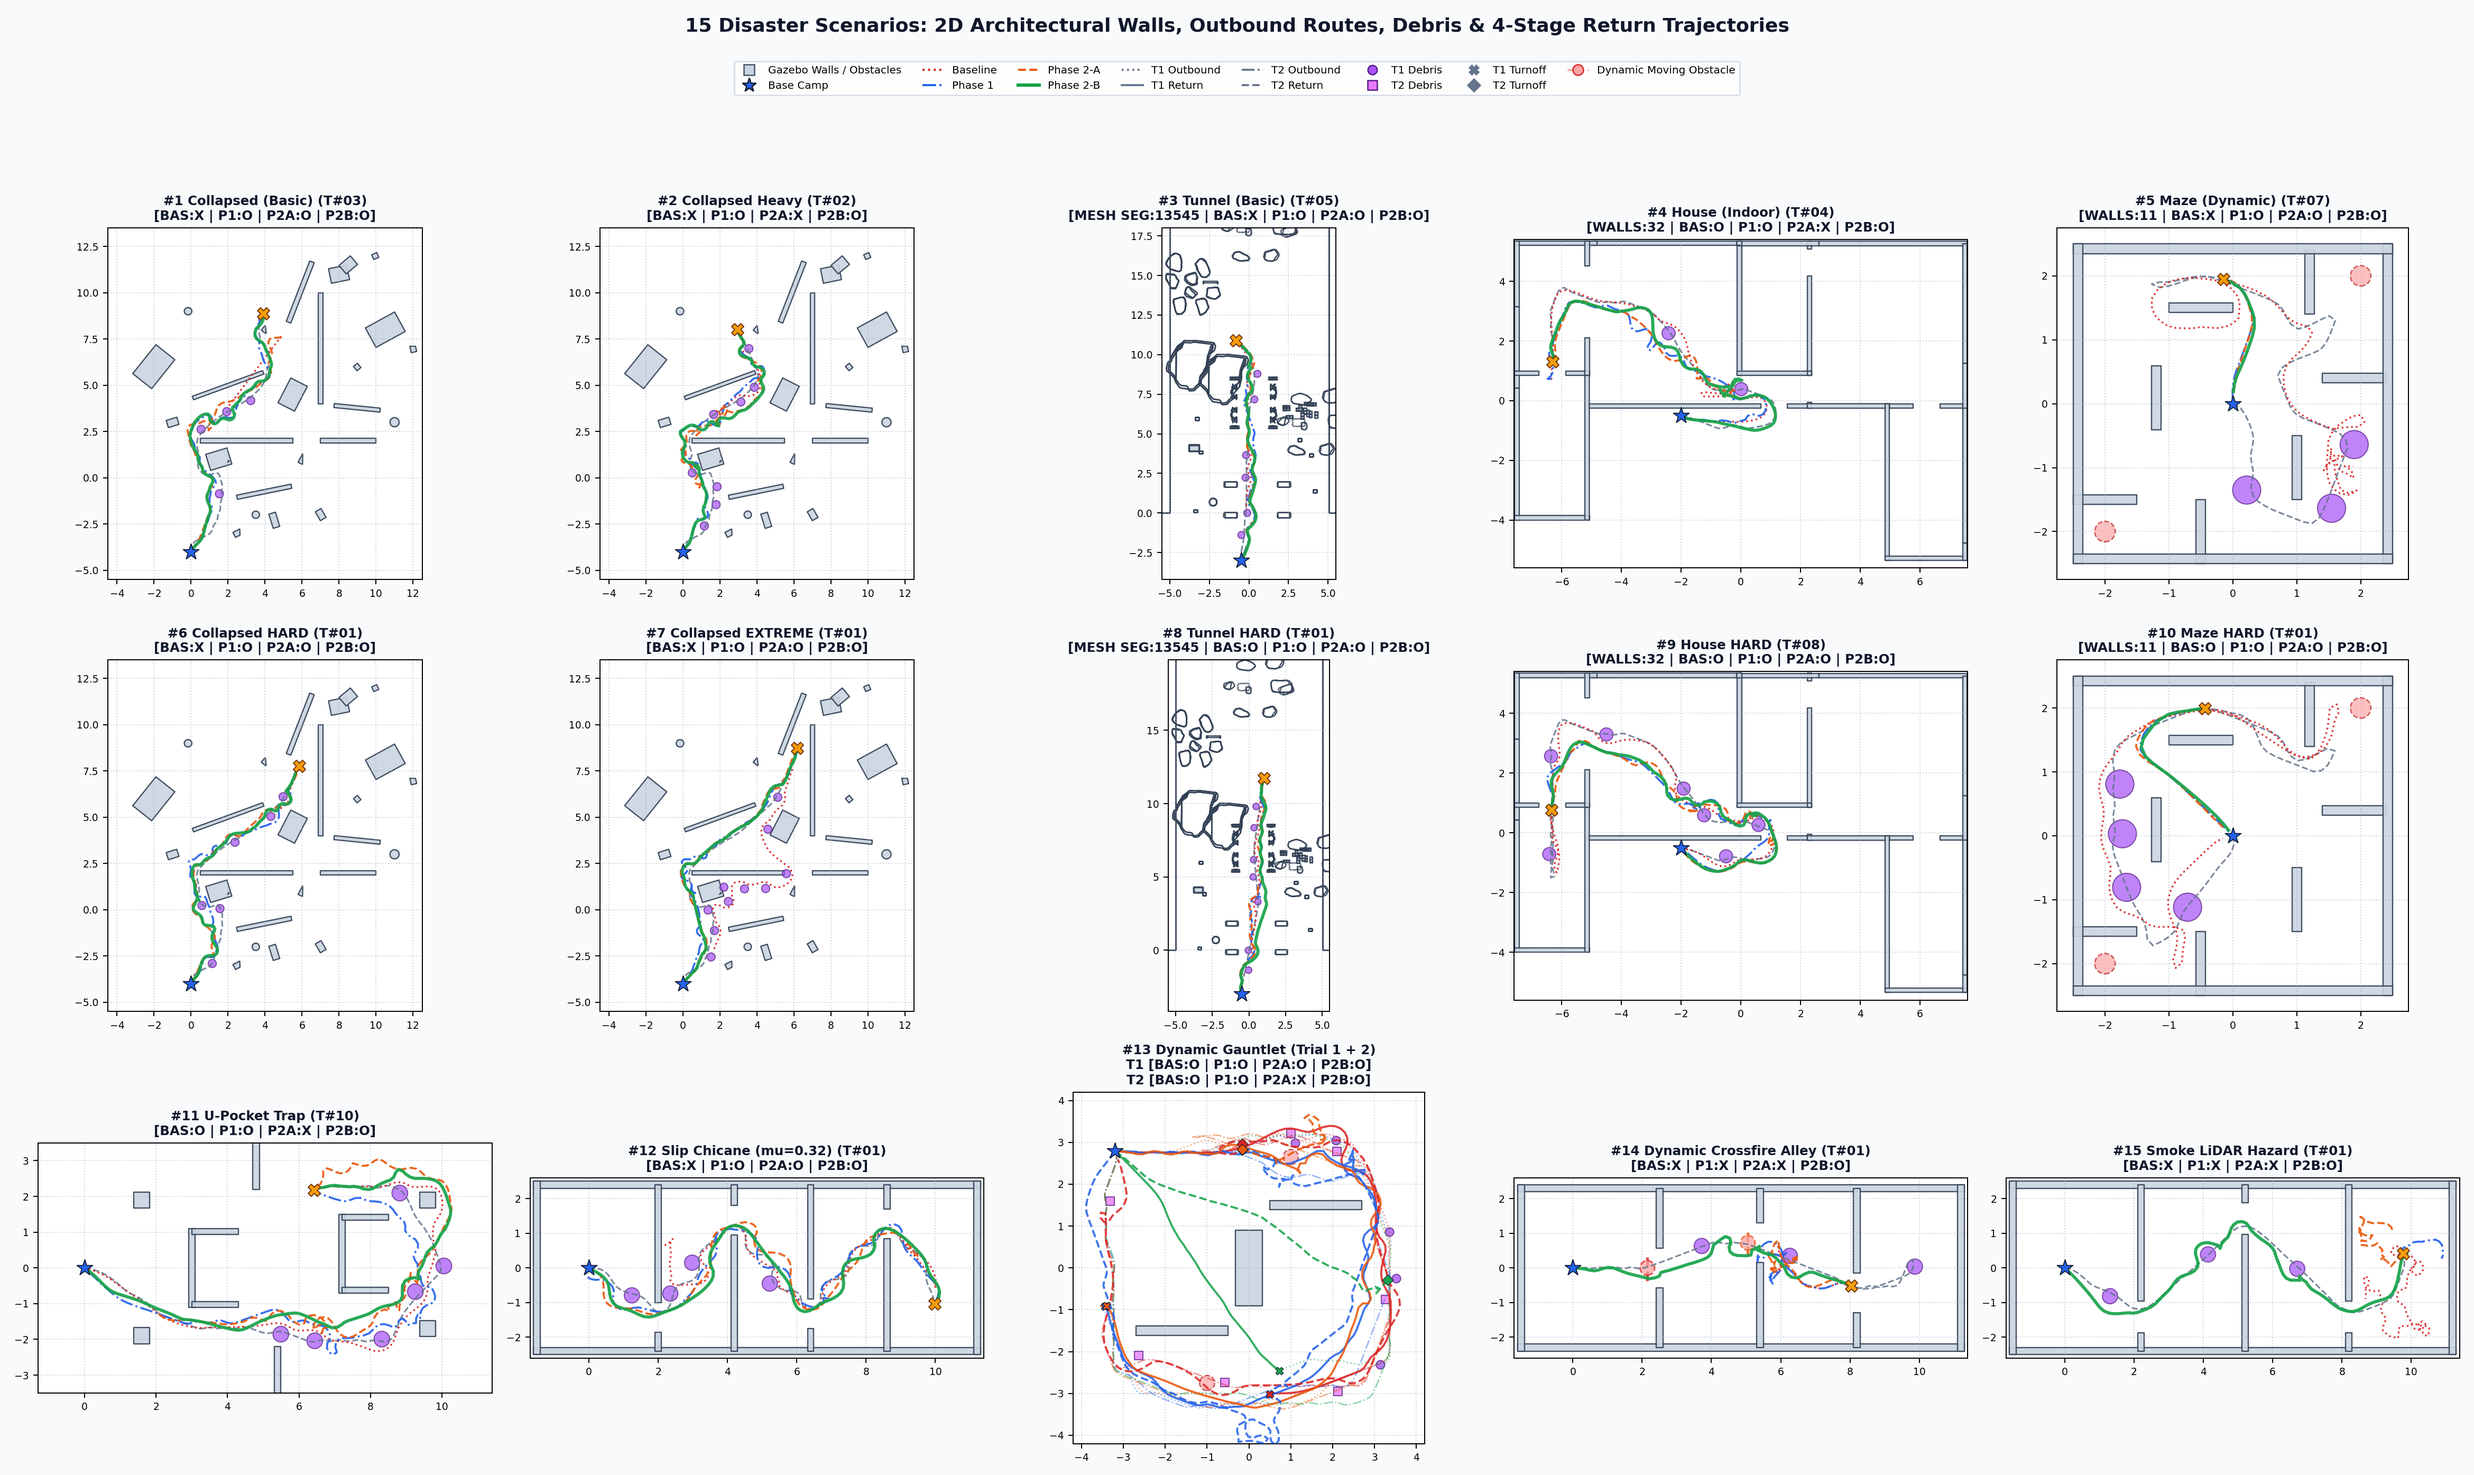
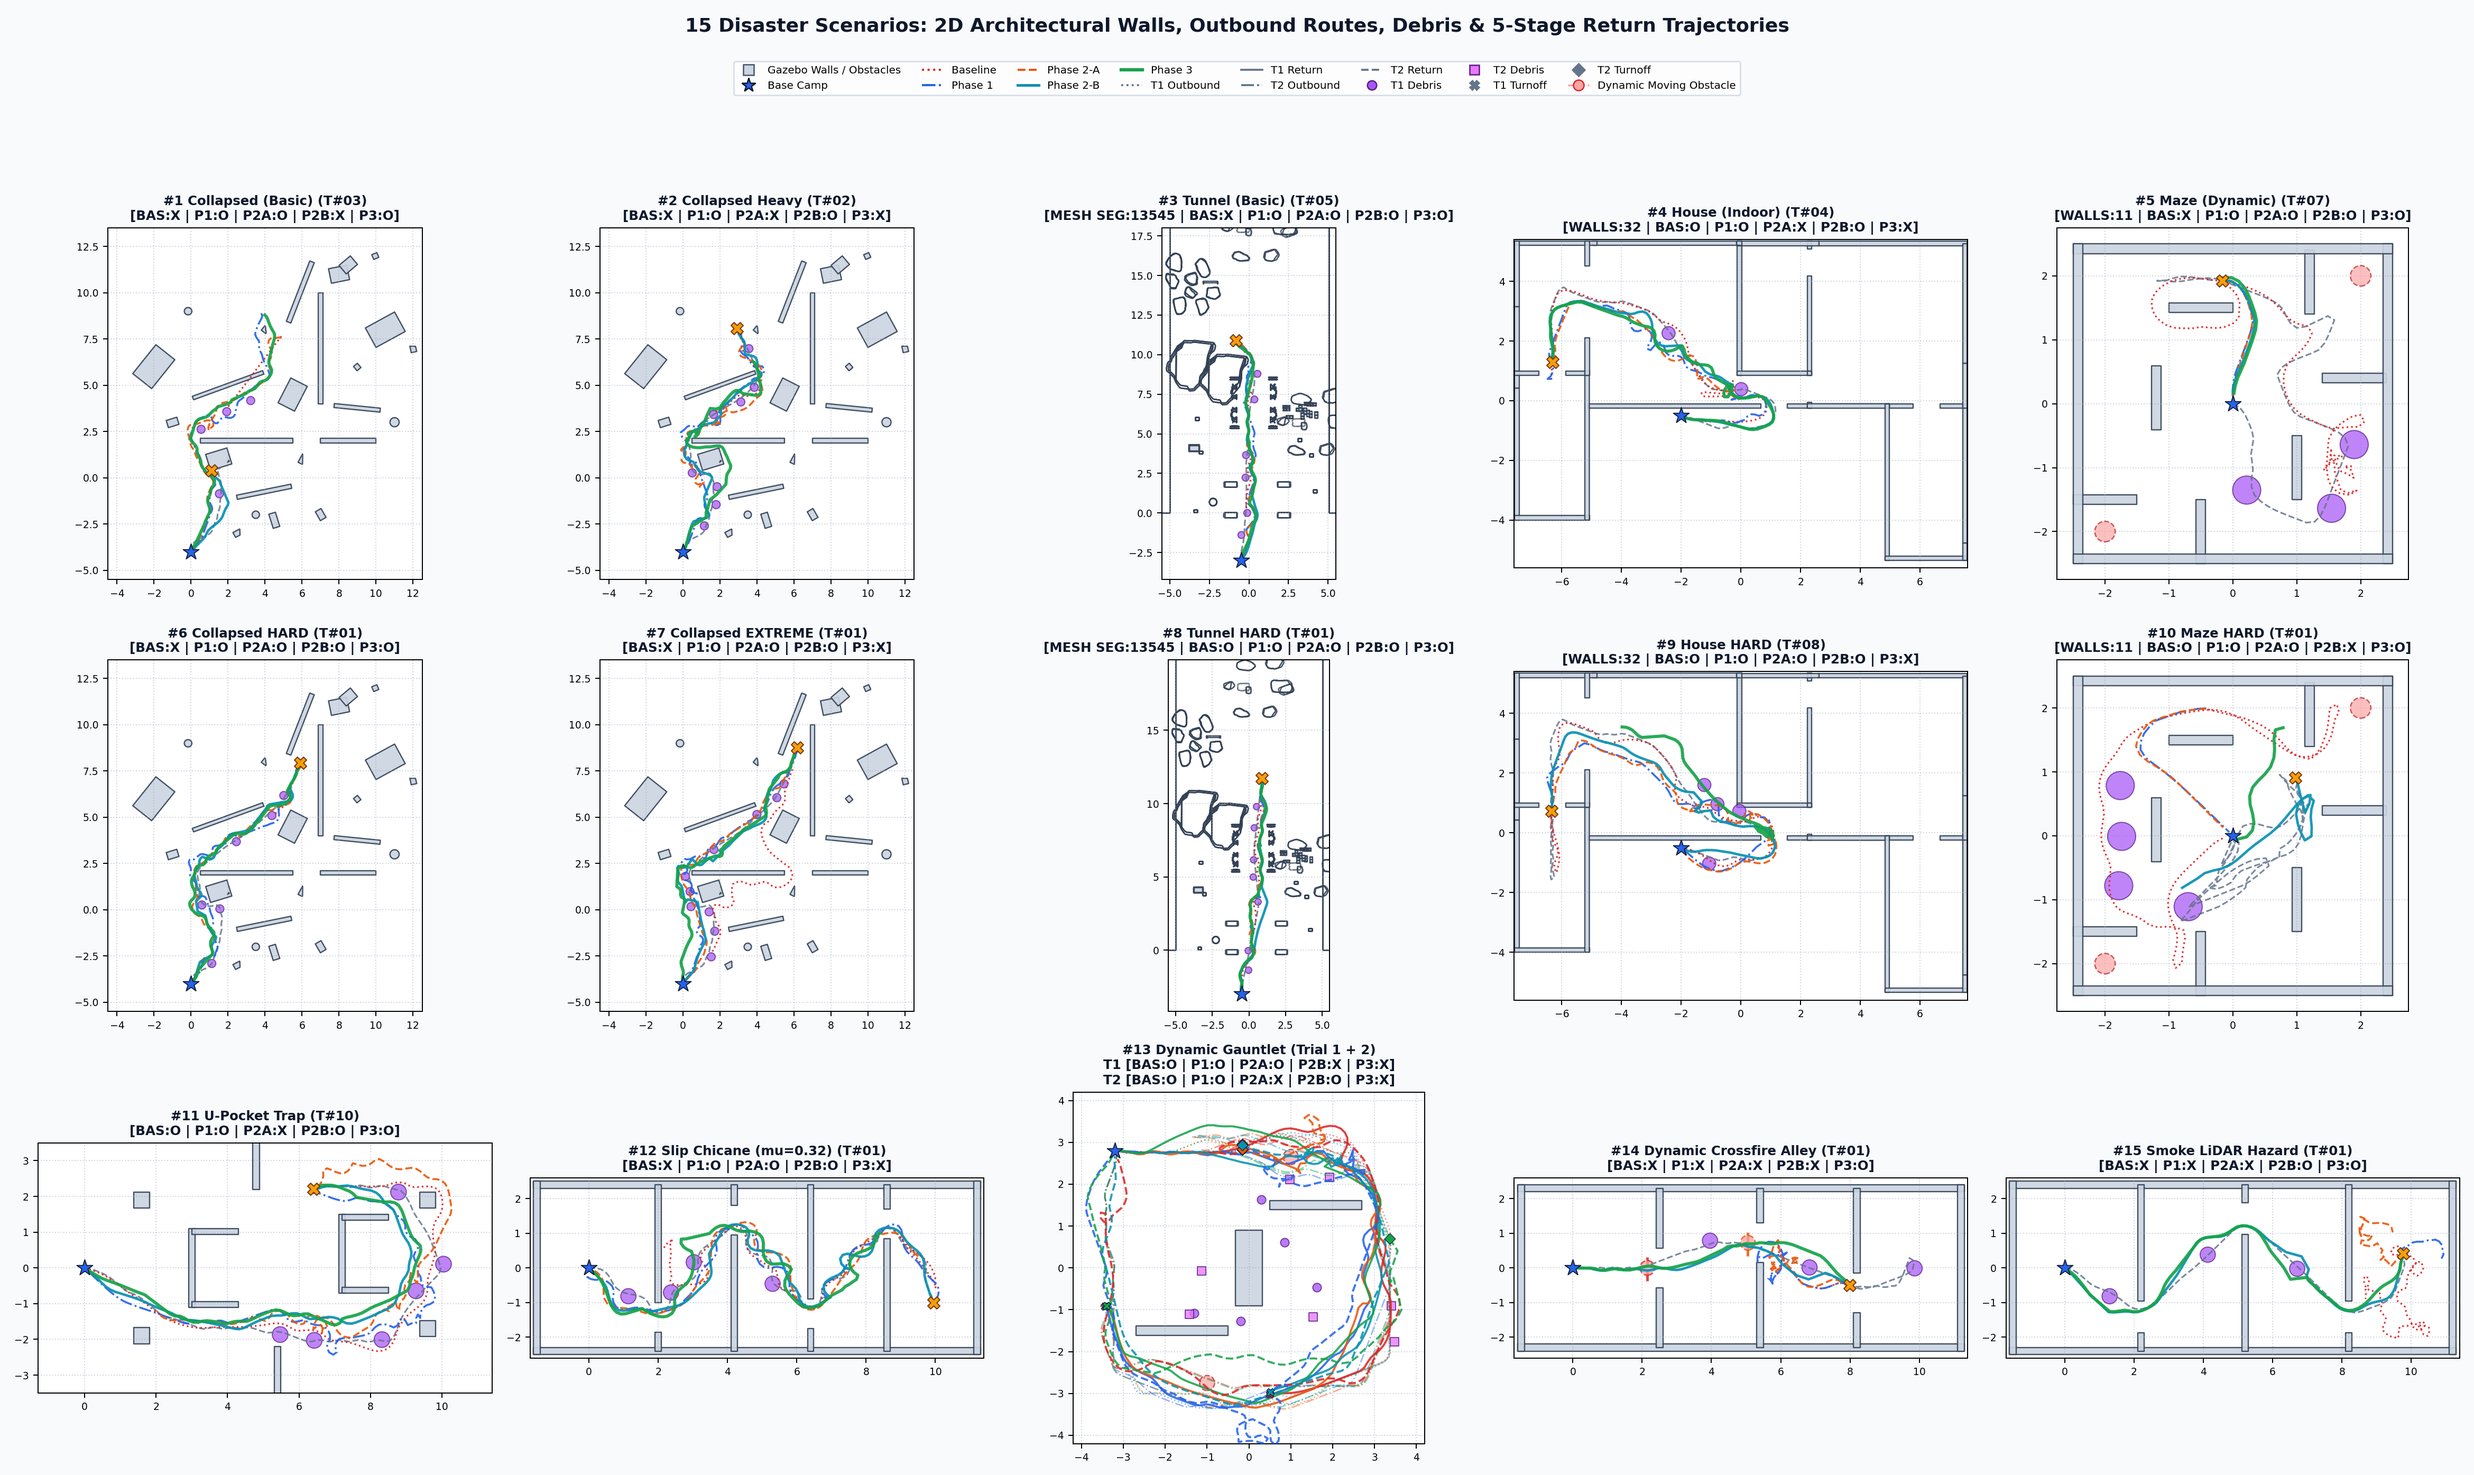
feat(atlas,docs): upgrade 15-scenario route atlas to 5-stage, expose in README, and document house_hard regression analysis

diff --git a/scripts/host/plot_scenario_routes_15_atlas.py b/scripts/host/plot_scenario_routes_15_atlas.py
@@ -134,7 +134,7 @@ PANELS: List[Tuple[str, str, int, str, Tuple[float, float, float, float]]] = [
 
 
 def _load_stage_trials(sc: str) -> Dict[str, dict]:
-    """Load the 4 benchmark stage JSON records (baseline, p1, p2a, p2b) for scenario sc."""
+    """Load the 5 benchmark stage JSON records (baseline, p1, p2a, p2b, p3) for scenario sc."""
     basic5 = {"collapsed", "collapsed_heavy", "tunnel", "house", "maze"}
     new2 = {"dynamic_crossfire_alley", "smoke_lidar_corruption"}
     if sc in basic5:
@@ -146,25 +146,22 @@ def _load_stage_trials(sc: str) -> Dict[str, dict]:
     else:
         p_b_p1 = os.path.join(HDD_ROOT, "bench_hard8_10trials", "phase1", f"ab_{sc}_10trials.json")
         p_p2a = os.path.join(HDD_ROOT, "bench_hard8_10trials", "phase2a", f"ab_{sc}_10trials.json")
-    p_p2b = os.path.join(HDD_ROOT, "bench_phase2b_v3_dynfix", f"ab_{sc}_10trials.json")
+    p_p2b = os.path.join(BM_ROOT, "phase2b_strict", f"ab_{sc}_10trials.json")
+    p_p3 = os.path.join(BM_ROOT, "phase3_semantic_v3", f"ab_{sc}_10trials.json")
 
     j_bp1 = json.load(open(p_b_p1, "r", encoding="utf-8"))
     j_p2a = json.load(open(p_p2a, "r", encoding="utf-8"))
     j_p2b = json.load(open(p_p2b, "r", encoding="utf-8"))
+    j_p3 = json.load(open(p_p3, "r", encoding="utf-8"))
     p2b_trials = j_p2b["proposed"]["trials"]
-
-    if sc == "dynamic_gauntlet":
-        sc_trace_path = os.path.join(WS_ROOT, "docs", "data", "dynamic_gauntlet_shortcut_traces.json")
-        if os.path.isfile(sc_trace_path):
-            sc_data = json.load(open(sc_trace_path, "r", encoding="utf-8"))
-            sc_by_trial = {int(r["trial"]): r for r in sc_data.get("trials", [])}
-            p2b_trials = [sc_by_trial.get(int(r.get("trial", -1)), r) for r in p2b_trials]
+    p3_trials = j_p3["proposed"]["trials"]
 
     return {
         "bas": j_bp1["baseline"]["trials"],
         "p1": j_bp1["proposed"]["trials"],
         "p2a": j_p2a["proposed"]["trials"],
         "p2b": p2b_trials,
+        "p3": p3_trials,
     }
 
 
@@ -222,12 +219,14 @@ def main() -> int:
             "phase1": _select_trial(stages["p1"], t_idx, sc, "phase1"),
             "phase2a": _select_trial(stages["p2a"], t_idx, sc, "phase2a"),
             "phase2b": _select_trial(stages["p2b"], t_idx, sc, "phase2b"),
+            "phase3": _select_trial(stages["p3"], t_idx, sc, "phase3"),
         }
         _validate_stage_identity(sc, t_idx, selected)
         r_bas = selected["baseline"]
         r_p1 = selected["phase1"]
         r_p2a = selected["phase2a"]
         r_p2b = selected["phase2b"]
+        r_p3 = selected["phase3"]
 
         gauntlet_trials = {}
         if sc == "dynamic_gauntlet":
@@ -237,6 +236,7 @@ def main() -> int:
                     "phase1": _select_trial(stages["p1"], trial_num, sc, "phase1"),
                     "phase2a": _select_trial(stages["p2a"], trial_num, sc, "phase2a"),
                     "phase2b": _select_trial(stages["p2b"], trial_num, sc, "phase2b"),
+                    "phase3": _select_trial(stages["p3"], trial_num, sc, "phase3"),
                 }
                 _validate_stage_identity(sc, trial_num, records)
                 gauntlet_trials[trial_num] = records
@@ -326,7 +326,8 @@ def main() -> int:
                 "baseline": "#dc2626",
                 "phase1": "#2563eb",
                 "phase2a": "#ea580c",
-                "phase2b": "#16a34a",
+                "phase2b": "#0891b2",
+                "phase3": "#16a34a",
             }
             trial_styles = {
                 1: {"outbound": ":", "return": "-", "debris": "o", "turnoff": "X"},
@@ -394,10 +395,11 @@ def main() -> int:
                 )
 
             for rec, col, ls, lw, zo in (
-                (r_bas, "#dc2626", ":", 1.35, 5),
-                (r_p1, "#2563eb", "-.", 1.50, 6),
-                (r_p2a, "#ea580c", "--", 1.50, 7),
-                (r_p2b, "#16a34a", "-", 2.35, 8),
+                (r_bas, "#dc2626", ":", 1.30, 5),
+                (r_p1, "#2563eb", "-.", 1.45, 6),
+                (r_p2a, "#ea580c", "--", 1.45, 7),
+                (r_p2b, "#0891b2", "-", 1.90, 8),
+                (r_p3, "#16a34a", "-", 2.35, 9),
             ):
                 r_pts = np.array(rec.get("return_path", []), dtype=float)
                 if len(r_pts) >= 2:
@@ -428,6 +430,7 @@ def main() -> int:
                         ("P1", "phase1"),
                         ("P2A", "phase2a"),
                         ("P2B", "phase2b"),
+                        ("P3", "phase3"),
                     )
                 )
                 status_lines.append(f"T{trial_num} [{status}]")
@@ -444,7 +447,8 @@ def main() -> int:
                 f"[{geometry_tag}BAS:{'O' if r_bas['success'] else 'X'} | "
                 f"P1:{'O' if r_p1['success'] else 'X'} | "
                 f"P2A:{'O' if r_p2a['success'] else 'X'} | "
-                f"P2B:{'O' if r_p2b['success'] else 'X'}]"
+                f"P2B:{'O' if r_p2b['success'] else 'X'} | "
+                f"P3:{'O' if r_p3['success'] else 'X'}]"
             )
             panel_title = title_base
 
@@ -461,7 +465,8 @@ def main() -> int:
         mlines.Line2D([], [], color="#dc2626", ls=":", lw=1.6, label="Baseline"),
         mlines.Line2D([], [], color="#2563eb", ls="-.", lw=1.6, label="Phase 1"),
         mlines.Line2D([], [], color="#ea580c", ls="--", lw=1.6, label="Phase 2-A"),
-        mlines.Line2D([], [], color="#16a34a", ls="-", lw=2.5, label="Phase 2-B"),
+        mlines.Line2D([], [], color="#0891b2", ls="-", lw=2.0, label="Phase 2-B"),
+        mlines.Line2D([], [], color="#16a34a", ls="-", lw=2.5, label="Phase 3"),
         mlines.Line2D([], [], color="#64748b", ls=":", lw=1.5, label="T1 Outbound"),
         mlines.Line2D([], [], color="#64748b", ls="-", lw=1.5, label="T1 Return"),
         mlines.Line2D([], [], color="#64748b", ls="-.", lw=1.5, label="T2 Outbound"),
@@ -483,7 +488,7 @@ def main() -> int:
         edgecolor="#cbd5e1",
     )
     fig.suptitle(
-        "15 Disaster Scenarios: 2D Architectural Walls, Outbound Routes, Debris & 4-Stage Return Trajectories",
+        "15 Disaster Scenarios: 2D Architectural Walls, Outbound Routes, Debris & 5-Stage Return Trajectories",
         fontsize=14.5,
         fontweight="bold",
         y=0.988,
